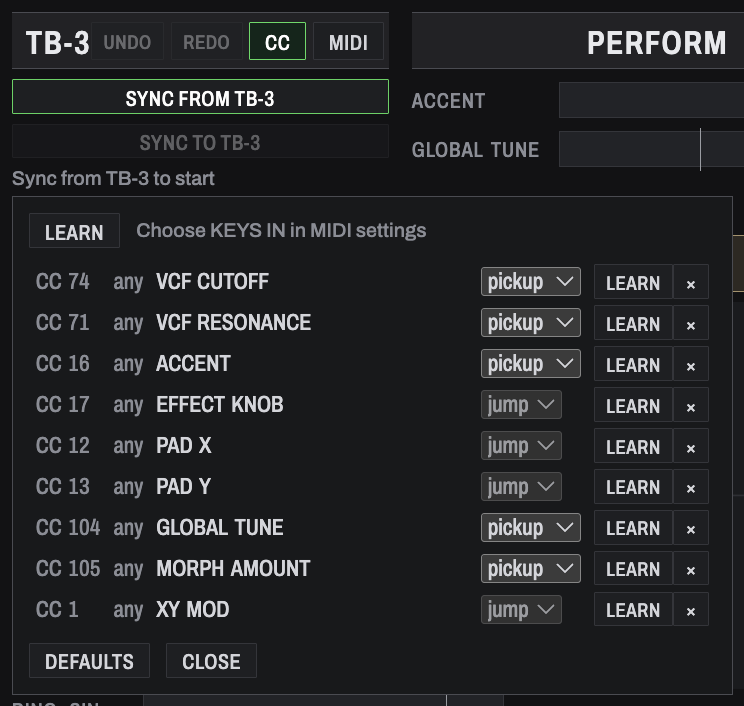
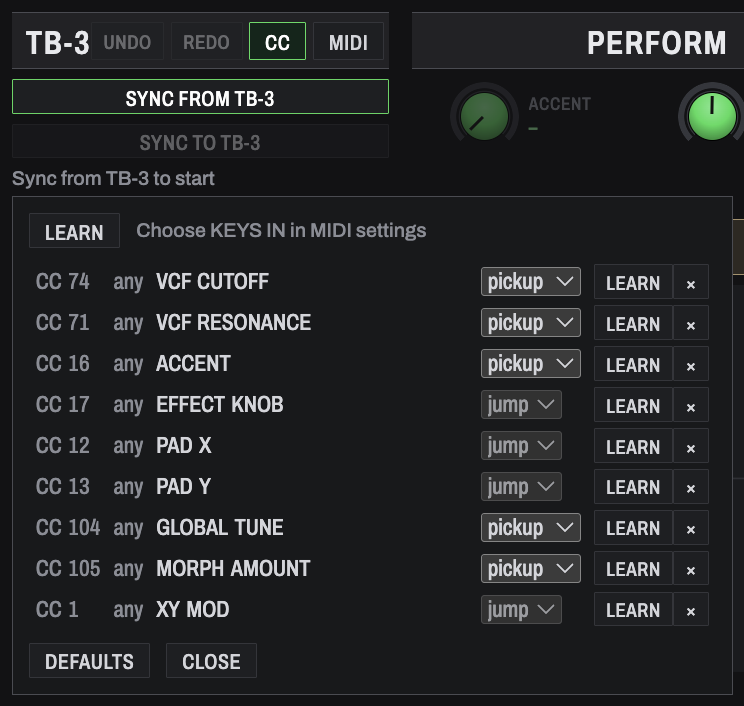
TB-3: user guide and screenshots for the knobs and value-showing EFX drawings

diff --git a/apps/tb3/docs/user-guide.md b/apps/tb3/docs/user-guide.md
@@ -54,18 +54,19 @@ something isn't getting through. The LAUNCHPAD ports are for a Launchpad Pro: se
 
 Every change is sent to the TB-3 straight away, so you hear it as you edit.
 
-### Faders
+### Knobs
 
-All the values are faders:
+The values are knobs, with caps in their section's colour:
 
-- **Drag** a fader to change it. The drag is relative: grab anywhere and move.
+- **Drag** a knob up or down to change it. The drag is relative: grab anywhere and move.
 - Hold **Shift** while dragging for fine control.
-- **Scroll** over a fader to step its value one at a time.
-- **Double-click** a fader to reset it to zero, its centre, or its default for effect settings.
+- **Scroll** over a knob to step its value one at a time.
+- **Double-click** a knob to reset it to zero, its centre, or its default for effect settings.
 
-Faders with a centre line, like the tunings and cross mod, are bipolar: they fill outwards from
-the middle. Each fader shows its value in the TB-3's own units (semitones, Hz, dB, ms, note
-lengths and so on).
+The ring round each knob shows how far it's turned. On bipolar values, like the tunings and cross
+mod, the ring fills from the top, either way; cross mod's negative amounts are amber. Each knob
+shows its value in the TB-3's own units (semitones, Hz, dB, ms, note lengths and so on). A knob
+whose source is switched off, or a rate while BPM SYNC is on, is dimmed.
 
 ### Top strip
 
@@ -91,8 +92,8 @@ parameter that can be assigned gets a dotted outline. Click the one you want; Es
 
 ![VCO, VCO MIX, CROSS MOD and RING MOD](images/row-oscillators.png)
 
-- **VCO**: a level fader for each source: saw, square, sine, white and pink noise, and the ring
-  modulator. The little light above each fader switches that source on and off. TUNING sets the
+- **VCO**: a level knob for each source: saw, square, sine, white and pink noise, and the ring
+  modulator. The button above each knob switches that source on and off. TUNING sets the
   pitch offsets of the saw, square, and ring + sine oscillators.
 - **VCO MIX**: with **DRAWN** selected, a picture of the mixed waveform, drawn from the settings to
   show the shape of the mix. With **LIVE** selected, the TB-3's actual output: see below.
@@ -144,7 +145,7 @@ speakers the way it always has. Whether DRAWN or LIVE is selected, and which LIV
 
 - **VCF**: cutoff, resonance, envelope depth and key follow, with the filter envelope. Drag the
   envelope's handles to shape it. The first sets attack, the second sets decay (sideways) and
-  sustain (up and down), and the last sets release. The A, D, S and R faders underneath edit the
+  sustain (up and down), and the last sets release. The A, D, S and R knobs underneath edit the
   same values.
 - **VCA**: the amp envelope, edited in the same way, and the master volume.
 - **LFO**: the waveform mix (saw, square, triangle, sine and sample & hold), rate, delay and CV
@@ -162,11 +163,11 @@ speakers the way it always has. Whether DRAWN or LIVE is selected, and which LIV
   ![The distortion types](images/distortion-types.png)
 
 - **EFX1 and EFX2**: pick the effect type from the row of buttons. ON switches the effect in.
-  EFX1 is blue and EFX2 violet (and DISTORTION orange), down to their faders, readouts and
-  pictures, so they're easy to tell apart.
+  EFX1 is blue and EFX2 violet (and DISTORTION orange), down to their knobs and pictures, so
+  they're easy to tell apart.
   Some types also have mode buttons, like the reverb's AMBIENT, ROOM and HALL. Every type but
-  BYPASS has a picture of what it does, on the left, with handles to drag. A setting you change in
-  the picture shows as its name and value on the right; the other settings keep their faders.
+  BYPASS has a picture of what it does, on the left, with handles to drag. Each handle shows its
+  setting's name and value; the other settings are knobs beside the picture.
   Settings that the current mode doesn't use are dimmed.
   - Drag a handle the way its cursor shows: sideways, up and down, or both. Hold Shift for fine
     steps, and double-click a handle to reset it.
@@ -190,7 +191,8 @@ speakers the way it always has. Whether DRAWN or LIVE is selected, and which LIV
   | REVERB (EFX2) | The tail, where it starts (PRE DLY) and dies away (TIME) | PRE DLY, TIME, HPF, LPF |
 
   The pictures make the settings easy to read; they aren't measurements of the TB-3's sound.
-- **EQ** (EFX1 only) shows its frequency response, with a handle for each band:
+- **EQ** (EFX1 only) shows its frequency response, with a handle for each band showing its
+  frequency, gain and (for the mid bands) Q. LEVEL is the knob beside it.
   - Drag a handle sideways to change its frequency, or up and down to change its gain.
   - Scroll over a mid band's handle to change its width (Q).
   - Double-click a handle to reset it.

diff --git a/docs/tb3-efx-views.md b/docs/tb3-efx-views.md
@@ -1,9 +1,10 @@
 # TB-3 EFX drawings
 
 Each EFX type except BYPASS has a drawing beside its slots, borrowed from the SP-404 MK2 editor's effect views
-(`apps/sp404/src/fx/views/`) so the two editors look and behave alike. Slots set in a drawing show as readouts
-(name and value) instead of faders, as the SP-404's in-view parameters do. Every handle sends through the editor's
-`setEfxByte`, so a drag reaches the TB-3 (paced, undoable, morph- and CC-aware) exactly as a fader move does.
+(`apps/sp404/src/fx/views/`) so the two editors look and behave alike. A drawing shows the values it sets on its
+handles and captions (two-line labels: name, then value); the other slots are knobs beside it (`ui/Knob.tsx`, after
+the JV-2080's), and the drawing takes the width they leave. Every handle sends through the editor's
+`setEfxByte`, so a drag reaches the TB-3 (paced, undoable, morph- and CC-aware) exactly as a knob turn does.
 
 ## Code
 
@@ -34,14 +35,15 @@ Each EFX type except BYPASS has a drawing beside its slots, borrowed from the SP
 | PHASER | PhaserView | MANUAL × RESONANCE |
 | DELAY | Sync Delay / Ko-Da-Ma taps | TIME (BPM SYNC when on, never down to OFF), FEEDBACK, LPF, TAP TIME in PAN |
 | PITCH SHIFT | ChromaticPsView | PITCH × PRE DLY for each voice |
-| EQ | (TB-3's own EqView) | every band setting but LEVEL |
+| EQ | (TB-3's own EqView) | every band setting but LEVEL, with frequency, gain and Q on the handles |
 | REVERB | ReverbView | TIME, PRE DLY, HPF, LPF |
 
 EFX1 is azure and EFX2 violet: `.efx1` / `.efx2` set `--tint`, `--led`, `--led-off`, `--val` and `--sel-bg`, as the
-LFO's red does, and the drawings' fills mix from `--led`, so faders, buttons, readouts and drawings all follow.
+LFO's red does, and the drawings' fills mix from `--led`, so knobs, buttons and drawings all follow.
 DISTORTION does the same in its header's orange.
 
-Drawings are 240 px wide, 167 px tall (136 under a row of mode buttons).
+Drawings are as wide as the knobs leave (two rows of knobs beside them), 167 px tall (136 under a row of mode
+buttons).
 
 ## Guesses to check on the hardware
 
